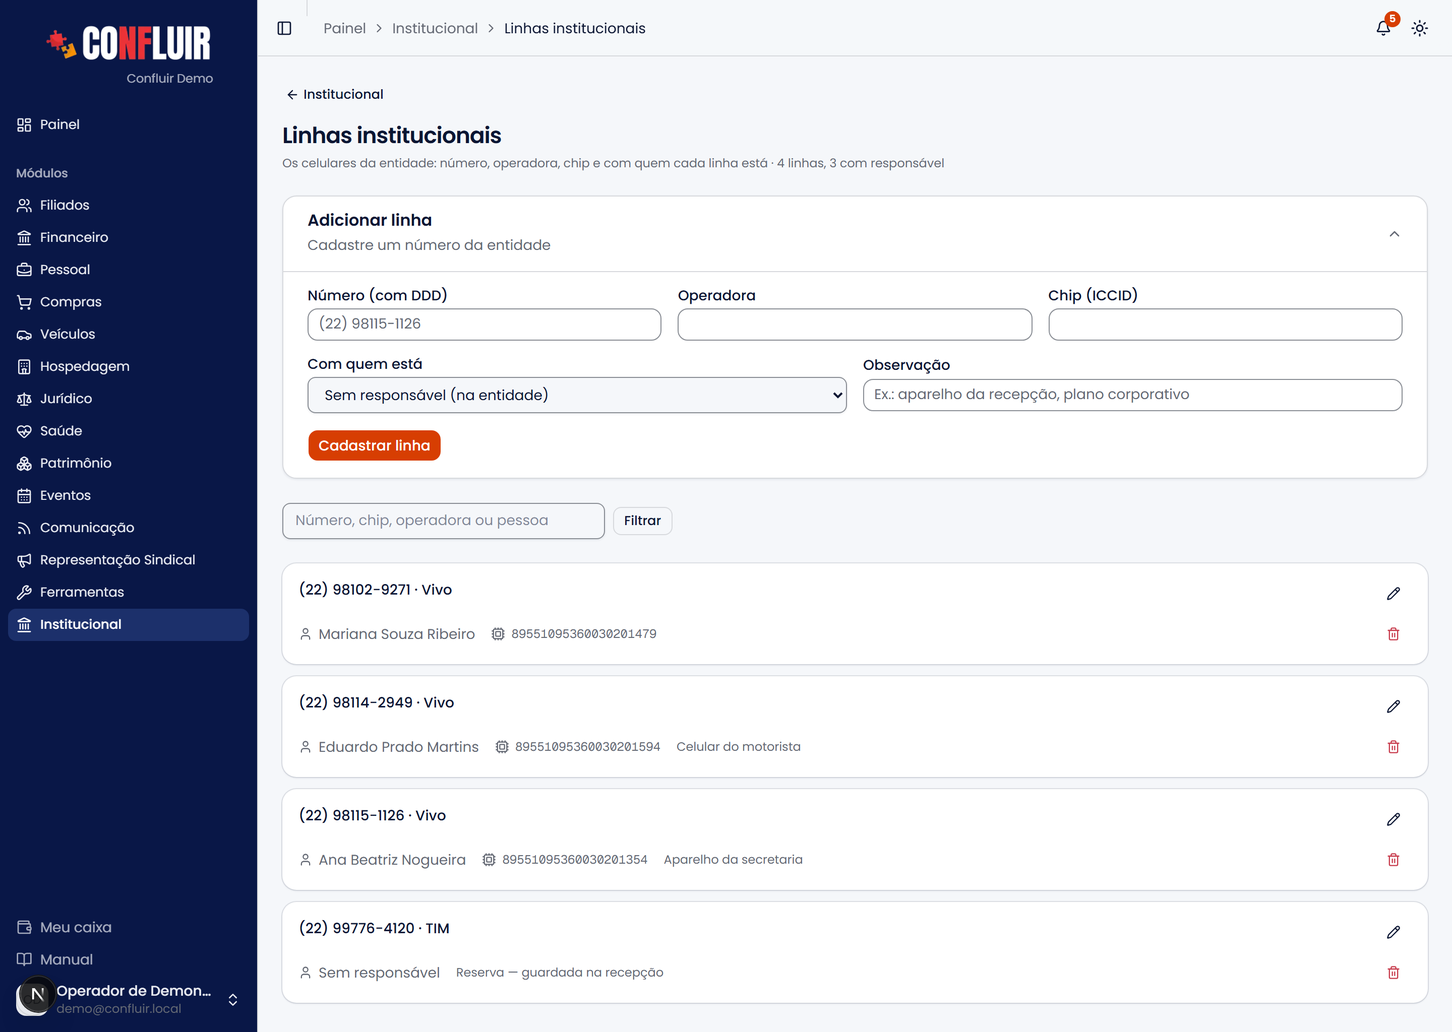
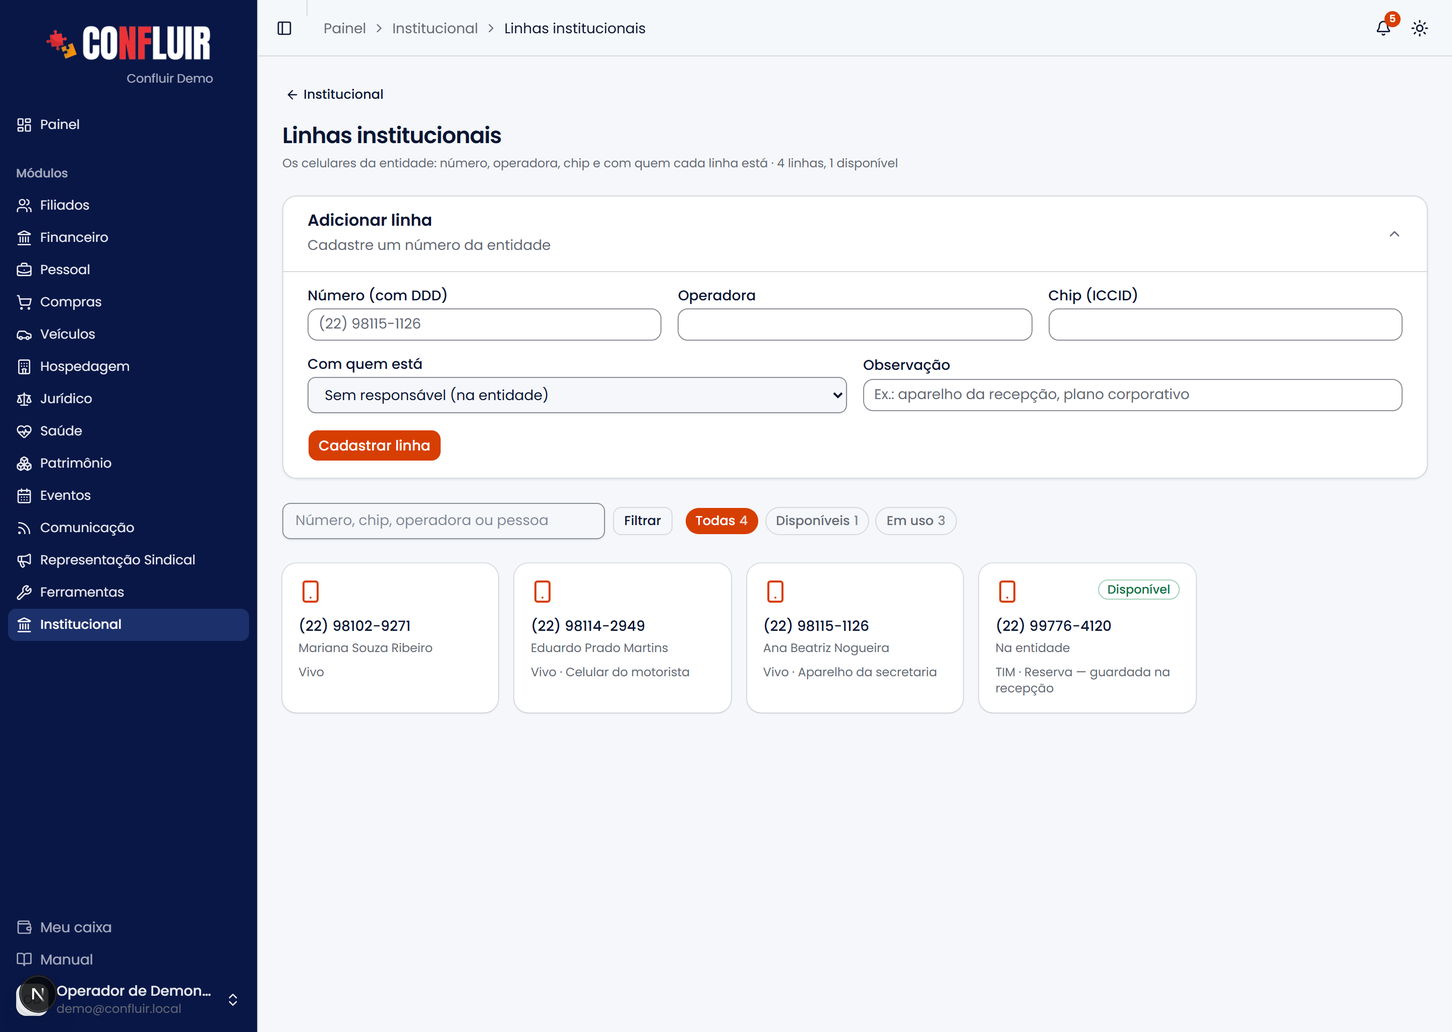
Linhas institucionais: filtro de disponibilidade, grade de 5 por linha e página da linha

diff --git a/src/lib/ajuda/base-conhecimento.ts b/src/lib/ajuda/base-conhecimento.ts
@@ -222,7 +222,7 @@ export const BASE_AJUDA: ArtigoBase[] = [
   {
     "area": "institucional",
     "slug": "index",
-    "texto": "O módulo Institucional cuida da entidade em si: a organização (identidade e\nsedes), a diretoria, as atas de reunião, o registro sindical no MTE, os e-mails\ne as linhas institucionais, os usuários do painel e as ajudas institucionais.\n\n Organização (identidade e sedes) \n\n As áreas do módulo\n\n \n \nOrganização: \n Os dados da organização (razão social, CNPJ, logo, site) aparecem para\n leitura, com o botão Editar organização. As sedes e os\n departamentos ficam em cartões; cada cartão abre a própria página, com o\n botão de editar. Esses dados aparecem em ofícios, fichas e rodapés.\n \n \nDiretoria e Atas: \n Os mandatos e integrantes da diretoria (base dos signatários de ofícios) e\n as atas das reuniões da entidade.\n \n \nRegistro sindical (MTE), E-mails e Linhas: \n Os registros no Ministério do Trabalho, os endereços institucionais e os\n celulares da entidade, com o responsável por cada um.\n \n \nUsuários e Ajudas institucionais: \n Quem acessa o painel e o que cada um pode ver/editar; e os apoios da\n entidade a organizações apoiadas.\n \n \n\n \n\n Departamentos\n\nEm Organização, os departamentos aparecem em cartões, com a coordenação e o\nnúmero de pessoas. Novo departamento abre o formulário; ao criar, você cai\nna página do departamento. Clicando no cartão, a página mostra as pessoas\nvinculadas — a coordenação primeiro — e o botão Editar departamento.\n\nCada departamento tem as pessoas vinculadas (funcionários ativos e\ndiretores do mandato vigente com conta de usuário) e o coordenador(a), que é\numa dessas pessoas: marque as pessoas primeiro — só as marcadas aparecem\ncomo opção de coordenador.\n\nCompras, Demandas e Ofícios usam essa lista. Em Ofícios, cada pessoa vê os\nofícios dos seus departamentos (como integrante ou coordenadora) — por isso\nmantenha as pessoas vinculadas em dia.\n\n \n\n \n\nExcluir é tornar legado: \n Um departamento não é apagado: compras, ofícios e contas continuam apontando\n para ele. Para excluir, desmarque todas as pessoas, deixe sem coordenador e\n salve (em Editar departamento); depois use Excluir (tornar legado). O legado sai das listas de\n escolha (nova compra, ofício, contratos…), continua nos registros antigos e\n fica em Departamentos legados, onde pode ser reativado.\n \n\n Linhas institucionais\n\nOs celulares da entidade: número (com DDD), operadora, chip (o\nICCID impresso no chip) e com quem a linha está — um funcionário ativo ou um\ndiretor do mandato vigente. Sem responsável, a linha fica \"na entidade\".\n\n Linhas institucionais \n\n \n \nCadastrar: \n Em Institucional → Linhas institucionais, abra Adicionar linha,\n informe o número e, se tiver, a operadora, o chip, com quem está e uma\n observação. O mesmo número não entra duas vezes.\n \n \nTrocar de mãos: \n Clique no lápis da linha e escolha a nova pessoa em Com quem está. Quem\n saiu do quadro continua aparecendo na lista enquanto estiver com a linha,\n em \"Fora do quadro atual\" — escolha outra pessoa ou \"Sem responsável\" para\n devolvê-la à entidade.\n \n \nEncontrar: \n A busca aceita parte do número, do chip, a operadora ou o nome da pessoa.\n \n \n\n \n\nAs linhas que existiam no sistema anterior vieram com número, operadora e chip,\nmas sem responsável — lá não havia esse campo. Preencha Com quem está\nem cada uma.\n\n Erros comuns\n\n- \"Vejo uma área e não as outras.\" Cada uma tem permissão própria\n (Organização, Mandatos e integrantes, Ajudas, Custeio, Usuários).\n- \"O coordenador que quero não aparece.\" Ele precisa estar entre as\n pessoas marcadas do departamento — marque-o na lista primeiro.\n- \"Excluir (tornar legado) está bloqueado.\" Ainda há pessoas ou coordenador\n no departamento: desmarque todos, deixe sem coordenador e salve.\n- \"Mudei o logo/razão e não refletiu no ofício.\" Os dados da Organização\n (logo, razão social, sedes) alimentam ofícios, fichas e rodapés — confira o\n cadastro em Organização."
+    "texto": "O módulo Institucional cuida da entidade em si: a organização (identidade e\nsedes), a diretoria, as atas de reunião, o registro sindical no MTE, os e-mails\ne as linhas institucionais, os usuários do painel e as ajudas institucionais.\n\n Organização (identidade e sedes) \n\n As áreas do módulo\n\n \n \nOrganização: \n Os dados da organização (razão social, CNPJ, logo, site) aparecem para\n leitura, com o botão Editar organização. As sedes e os\n departamentos ficam em cartões; cada cartão abre a própria página, com o\n botão de editar. Esses dados aparecem em ofícios, fichas e rodapés.\n \n \nDiretoria e Atas: \n Os mandatos e integrantes da diretoria (base dos signatários de ofícios) e\n as atas das reuniões da entidade.\n \n \nRegistro sindical (MTE), E-mails e Linhas: \n Os registros no Ministério do Trabalho, os endereços institucionais e os\n celulares da entidade, com o responsável por cada um.\n \n \nUsuários e Ajudas institucionais: \n Quem acessa o painel e o que cada um pode ver/editar; e os apoios da\n entidade a organizações apoiadas.\n \n \n\n \n\n Departamentos\n\nEm Organização, os departamentos aparecem em cartões, com a coordenação e o\nnúmero de pessoas. Novo departamento abre o formulário; ao criar, você cai\nna página do departamento. Clicando no cartão, a página mostra as pessoas\nvinculadas — a coordenação primeiro — e o botão Editar departamento.\n\nCada departamento tem as pessoas vinculadas (funcionários ativos e\ndiretores do mandato vigente com conta de usuário) e o coordenador(a), que é\numa dessas pessoas: marque as pessoas primeiro — só as marcadas aparecem\ncomo opção de coordenador.\n\nCompras, Demandas e Ofícios usam essa lista. Em Ofícios, cada pessoa vê os\nofícios dos seus departamentos (como integrante ou coordenadora) — por isso\nmantenha as pessoas vinculadas em dia.\n\n \n\n \n\nExcluir é tornar legado: \n Um departamento não é apagado: compras, ofícios e contas continuam apontando\n para ele. Para excluir, desmarque todas as pessoas, deixe sem coordenador e\n salve (em Editar departamento); depois use Excluir (tornar legado). O legado sai das listas de\n escolha (nova compra, ofício, contratos…), continua nos registros antigos e\n fica em Departamentos legados, onde pode ser reativado.\n \n\n Linhas institucionais\n\nOs celulares da entidade: número (com DDD), operadora, chip (o\nICCID impresso no chip) e com quem a linha está — um funcionário ativo ou um\ndiretor do mandato vigente. Sem responsável, a linha fica \"na entidade\" e\naparece como Disponível.\n\n Linhas institucionais \n\n \n \nCadastrar: \n Em Institucional → Linhas institucionais, abra Adicionar linha,\n informe o número e, se tiver, a operadora, o chip, com quem está e uma\n observação. O mesmo número não entra duas vezes.\n \n \nTrocar de mãos: \n As linhas ficam em cartões, cinco por fileira, com o número, com quem está (ou\n o selo Disponível) e a operadora. Clique no cartão: a página da linha\n mostra os dados e o botão Editar linha — escolha a nova pessoa em Com\n quem está e salve. Na mesma página, Remover linha tira do cadastro uma\n linha cancelada ou devolvida à operadora. Quem\n saiu do quadro continua aparecendo na lista enquanto estiver com a linha,\n em \"Fora do quadro atual\" — escolha outra pessoa ou \"Sem responsável\" para\n devolvê-la à entidade.\n \n \nEncontrar: \n A busca aceita parte do número, do chip, a operadora ou o nome da pessoa.\n Os botões Todas, Disponíveis e Em uso filtram pela\n disponibilidade — cada um mostra quantas linhas tem — e valem junto com a\n busca. Para entregar uma linha a alguém, comece por Disponíveis.\n \n \n\n \n\n \n\nAs linhas que existiam no sistema anterior vieram com número, operadora e chip,\nmas sem responsável — lá não havia esse campo. Parte delas ganhou o\nresponsável deduzido pelo telefone: quando o número da linha estava no cadastro\nde uma pessoa (telefone, WhatsApp ou ficha de filiação), a linha foi atribuída a\nela. Confira essas e preencha Com quem está nas demais.\n\n Erros comuns\n\n- \"Vejo uma área e não as outras.\" Cada uma tem permissão própria\n (Organização, Mandatos e integrantes, Ajudas, Custeio, Usuários).\n- \"O coordenador que quero não aparece.\" Ele precisa estar entre as\n pessoas marcadas do departamento — marque-o na lista primeiro.\n- \"Excluir (tornar legado) está bloqueado.\" Ainda há pessoas ou coordenador\n no departamento: desmarque todos, deixe sem coordenador e salve.\n- \"Mudei o logo/razão e não refletiu no ofício.\" Os dados da Organização\n (logo, razão social, sedes) alimentam ofícios, fichas e rodapés — confira o\n cadastro em Organização."
   },
   {
     "area": "institucional",

diff --git a/src/app/painel/institucional/linhas/page.tsx b/src/app/painel/institucional/linhas/page.tsx
@@ -1,9 +1,10 @@
 import type { Metadata } from "next"
 import Link from "next/link"
-import { ArrowLeft, Cpu, Smartphone, User } from "lucide-react"
+import { ArrowLeft, Smartphone } from "lucide-react"
 
-import { CartaoEditavel } from "@/components/cartao-editavel"
+import { CartaoArea, GRADE_AREAS } from "@/components/cartao-area"
 import { GrupoColapsavel } from "@/components/grupo-colapsavel"
+import { Badge } from "@/components/ui/badge"
 import { Button } from "@/components/ui/button"
 import { Card, CardContent } from "@/components/ui/card"
 import { requirePermissao } from "@/lib/auth"
@@ -12,29 +13,56 @@ import {
   opcoesResponsaveisLinha,
 } from "@/lib/db/linhas-institucionais"
 import { formatarTelefone } from "@/lib/formato"
+import { cn } from "@/lib/utils"
 
-import { AdicionarLinha, BotaoExcluirLinha, EditarLinha } from "./linhas-forms"
+import { AdicionarLinha } from "./linhas-forms"
 
 export const metadata: Metadata = { title: "Linhas institucionais — Confluir" }
 
 const FILTRO =
   "border-input bg-background text-foreground h-9 w-80 max-w-full rounded-md border px-3 text-sm shadow-xs outline-none [color-scheme:light] dark:[color-scheme:dark]"
 
+/** Disponibilidade: livre = sem responsável (na entidade); em uso = com alguém. */
+const SITUACOES = [
+  { valor: "todas", rotulo: "Todas" },
+  { valor: "disponiveis", rotulo: "Disponíveis" },
+  { valor: "em_uso", rotulo: "Em uso" },
+] as const
+type Situacao = (typeof SITUACOES)[number]["valor"]
+
 export default async function LinhasInstitucionaisPage({
   searchParams,
 }: {
-  searchParams: Promise<{ busca?: string }>
+  searchParams: Promise<{ busca?: string; situacao?: string; removida?: string }>
 }) {
   await requirePermissao("ferramentas_linhas_telefone", ["configuracoes"])
 
-  const { busca = "" } = await searchParams
-  const termo = busca.trim()
+  const params = await searchParams
+  const termo = (params.busca ?? "").trim()
+  const situacao: Situacao = SITUACOES.some((s) => s.valor === params.situacao)
+    ? (params.situacao as Situacao)
+    : "todas"
   const todas = await listarLinhasInstitucionais()
-  const [linhas, responsaveis] = await Promise.all([
+  const [buscadas, responsaveis] = await Promise.all([
     termo ? listarLinhasInstitucionais(termo) : Promise.resolve(todas),
     opcoesResponsaveisLinha(todas),
   ])
   const comResponsavel = todas.filter((l) => l.usuarioId).length
+  const contagem: Record<Situacao, number> = {
+    todas: buscadas.length,
+    disponiveis: buscadas.filter((l) => !l.usuarioId).length,
+    em_uso: buscadas.filter((l) => l.usuarioId).length,
+  }
+  const linhas = buscadas.filter((l) =>
+    situacao === "disponiveis" ? !l.usuarioId : situacao === "em_uso" ? Boolean(l.usuarioId) : true
+  )
+  const hrefSituacao = (s: Situacao) => {
+    const q = new URLSearchParams()
+    if (termo) q.set("busca", termo)
+    if (s !== "todas") q.set("situacao", s)
+    const qs = q.toString()
+    return `/painel/institucional/linhas${qs ? `?${qs}` : ""}`
+  }
 
   return (
     <>
@@ -48,15 +76,24 @@ export default async function LinhasInstitucionaisPage({
         <h1 className="text-2xl font-semibold tracking-tight">Linhas institucionais</h1>
         <p className="text-muted-foreground mt-1 text-xs">
           Os celulares da entidade: número, operadora, chip e com quem cada linha está ·{" "}
-          {todas.length} linha{todas.length === 1 ? "" : "s"}, {comResponsavel} com responsável
+          {todas.length} linha{todas.length === 1 ? "" : "s"}, {todas.length - comResponsavel}{" "}
+          disponíve{todas.length - comResponsavel === 1 ? "l" : "is"}
         </p>
       </div>
+
+      {params.removida && (
+        <p className="border-success/40 bg-success/10 text-success-fg rounded-md border px-3 py-2 text-sm">
+          Linha removida do cadastro.
+        </p>
+      )}
 
       <GrupoColapsavel titulo="Adicionar linha" descricao="Cadastre um número da entidade">
         <AdicionarLinha responsaveis={responsaveis} />
       </GrupoColapsavel>
 
-      <form className="flex flex-wrap items-center gap-2" action="/painel/institucional/linhas">
+      <div className="flex flex-wrap items-center gap-3">
+      <form className="flex min-w-0 flex-wrap items-center gap-2" action="/painel/institucional/linhas">
+        {situacao !== "todas" && <input type="hidden" name="situacao" value={situacao} />}
         <input
           type="search"
           name="busca"
@@ -68,45 +105,53 @@ export default async function LinhasInstitucionaisPage({
           Filtrar
         </Button>
       </form>
+        <nav aria-label="Disponibilidade" className="flex flex-wrap gap-1.5">
+          {SITUACOES.map((s) => (
+            <Button
+              key={s.valor}
+              asChild
+              size="sm"
+              variant={situacao === s.valor ? "default" : "outline"}
+              className={cn("rounded-full", situacao !== s.valor && "text-muted-foreground")}
+            >
+              <Link href={hrefSituacao(s.valor)} aria-current={situacao === s.valor ? "page" : undefined}>
+                {s.rotulo}
+                <span className="tabular-nums opacity-80">{contagem[s.valor]}</span>
+              </Link>
+            </Button>
+          ))}
+        </nav>
+      </div>
 
       {linhas.length === 0 ? (
         <Card>
           <CardContent>
             <p className="text-muted-foreground py-8 text-center text-sm">
               <Smartphone className="mx-auto mb-2 size-5" />
-              {termo
+              {termo || situacao !== "todas"
                 ? "Nenhuma linha encontrada com esse filtro."
                 : "Nenhuma linha institucional cadastrada ainda."}
             </p>
           </CardContent>
         </Card>
       ) : (
-        <div className="grid gap-3">
+        <div className={GRADE_AREAS}>
           {linhas.map((l) => (
-            <CartaoEditavel
+            <CartaoArea
               key={l.id}
-              titulo={`${formatarTelefone(l.numero)}${l.operadora ? ` · ${l.operadora}` : ""}`}
-              resumo={
-                <div className="flex flex-wrap items-center justify-between gap-2">
-                  <div className="text-muted-foreground flex flex-wrap items-center gap-x-4 gap-y-1 text-sm">
-                    <span className="flex items-center gap-1.5">
-                      <User className="size-3.5" />
-                      {l.responsavelNome ?? "Sem responsável"}
-                    </span>
-                    {l.chip && (
-                      <span className="flex items-center gap-1.5 font-mono text-xs">
-                        <Cpu className="size-3.5" />
-                        {l.chip}
-                      </span>
-                    )}
-                    {l.observacao && <span className="text-xs">{l.observacao}</span>}
-                  </div>
-                  <BotaoExcluirLinha id={l.id} numero={l.numero} />
-                </div>
+              titulo={formatarTelefone(l.numero)}
+              descricao={l.responsavelNome ?? (l.usuarioId ? "(sem nome)" : "Na entidade")}
+              href={`/painel/institucional/linhas/${l.id}`}
+              icone={Smartphone}
+              indicador={[l.operadora, l.observacao].filter(Boolean).join(" · ") || null}
+              selo={
+                l.usuarioId ? null : (
+                  <Badge variant="outline" className="border-success/40 text-success-fg">
+                    Disponível
+                  </Badge>
+                )
               }
-            >
-              <EditarLinha linha={l} responsaveis={responsaveis} />
-            </CartaoEditavel>
+            />
           ))}
         </div>
       )}

diff --git a/src/app/painel/institucional/linhas/[id]/page.tsx b/src/app/painel/institucional/linhas/[id]/page.tsx
@@ -1,0 +1,100 @@
+import type { Metadata } from "next"
+import Link from "next/link"
+import { notFound } from "next/navigation"
+import { ArrowLeft, Smartphone } from "lucide-react"
+
+import { RotuloTrilha } from "@/components/layout/trilha-rotulos"
+import { Badge } from "@/components/ui/badge"
+import { Button } from "@/components/ui/button"
+import { Card, CardContent } from "@/components/ui/card"
+import { requirePermissao } from "@/lib/auth"
+import {
+  listarLinhasInstitucionais,
+  opcoesResponsaveisLinha,
+} from "@/lib/db/linhas-institucionais"
+import { formatarTelefone } from "@/lib/formato"
+
+import { AbrirFormulario } from "../../organizacao/abrir-formulario"
+import { BotaoExcluirLinha, EditarLinha } from "../linhas-forms"
+
+export const metadata: Metadata = { title: "Linha institucional — Confluir" }
+
+function Dado({ rotulo, valor, mono }: { rotulo: string; valor: string | null; mono?: boolean }) {
+  return (
+    <div className="min-w-0">
+      <dt className="text-muted-foreground text-xs">{rotulo}</dt>
+      <dd className={mono ? "truncate font-mono text-sm" : "truncate"}>{valor || "—"}</dd>
+    </div>
+  )
+}
+
+/** Uma linha institucional: os dados, com Editar linha e a exclusão. */
+export default async function LinhaInstitucionalPage({
+  params,
+}: {
+  params: Promise<{ id: string }>
+}) {
+  await requirePermissao("ferramentas_linhas_telefone", ["configuracoes"])
+  const { id } = await params
+  const todas = await listarLinhasInstitucionais()
+  const linha = todas.find((l) => l.id === id)
+  if (!linha) notFound()
+  const responsaveis = await opcoesResponsaveisLinha(todas)
+  const numero = formatarTelefone(linha.numero)
+
+  return (
+    <>
+      <RotuloTrilha valores={{ [id]: numero }} />
+      <div>
+        <Button variant="ghost" size="sm" asChild className="-ml-2 mb-3">
+          <Link href="/painel/institucional/linhas">
+            <ArrowLeft />
+            Linhas institucionais
+          </Link>
+        </Button>
+        <div className="flex flex-wrap items-center gap-2">
+          <Smartphone className="text-muted-foreground size-5" />
+          <h1 className="text-2xl font-semibold tracking-tight">{numero}</h1>
+          {linha.usuarioId ? (
+            <Badge variant="outline">Em uso</Badge>
+          ) : (
+            <Badge variant="outline" className="border-success/40 text-success-fg">
+              Disponível
+            </Badge>
+          )}
+        </div>
+        <p className="text-muted-foreground mt-1 text-xs">
+          {linha.usuarioId
+            ? `Com ${linha.responsavelNome ?? "(sem nome)"}`
+            : "Sem responsável — a linha está com a entidade"}
+        </p>
+      </div>
+
+      <Card>
+        <CardContent>
+          <AbrirFormulario
+            rotulo="Editar linha"
+            resumo={
+              <dl className="grid gap-x-6 gap-y-3 text-sm sm:grid-cols-2 lg:grid-cols-3">
+                <Dado rotulo="Número" valor={numero} />
+                <Dado rotulo="Operadora" valor={linha.operadora} />
+                <Dado rotulo="Chip (ICCID)" valor={linha.chip} mono />
+                <Dado rotulo="Com quem está" valor={linha.responsavelNome ?? (linha.usuarioId ? "(sem nome)" : "Na entidade")} />
+                <Dado rotulo="Observação" valor={linha.observacao} />
+              </dl>
+            }
+          >
+            <EditarLinha linha={linha} responsaveis={responsaveis} />
+          </AbrirFormulario>
+        </CardContent>
+      </Card>
+
+      <div className="flex flex-wrap items-center gap-2">
+        <BotaoExcluirLinha id={linha.id} numero={linha.numero} comRotulo />
+        <span className="text-muted-foreground text-xs">
+          Para uma linha cancelada ou devolvida à operadora.
+        </span>
+      </div>
+    </>
+  )
+}

diff --git a/src/components/cartao-area.tsx b/src/components/cartao-area.tsx
@@ -1,4 +1,4 @@
-import type { ComponentType } from "react"
+import type { ComponentType, ReactNode } from "react"
 import Link from "next/link"
 
 import { Badge } from "@/components/ui/badge"
@@ -16,7 +16,8 @@ export const GRADE_AREAS =
 /**
  * Card de navegação para um hub de módulo/área. Padrão único do sistema: ícone
  * laranja (`text-primary`) no topo, título, descrição menor e, opcionalmente,
- * um indicador (ex.: "128 registros") ou o selo "Em breve". Substitui os
+ * um indicador (ex.: "128 registros"), um selo próprio (`selo`, ex.: "Disponível")
+ * ou o selo "Em breve". Substitui os
  * `CardArea`/`AreaCard` que eram duplicados em cada hub.
  */
 export function CartaoArea({
@@ -26,6 +27,7 @@ export function CartaoArea({
   icone: Icone,
   indicador,
   emBreve,
+  selo,
 }: {
   titulo: string
   descricao: string
@@ -33,6 +35,7 @@ export function CartaoArea({
   icone: ComponentType<{ className?: string }>
   indicador?: string | null
   emBreve?: boolean
+  selo?: ReactNode
 }) {
   const clicavel = Boolean(href) && !emBreve
 
@@ -47,7 +50,7 @@ export function CartaoArea({
       <CardContent>
         <div className="flex items-start justify-between gap-2">
           <Icone className="text-primary size-6" />
-          {emBreve && <Badge variant="secondary">Em breve</Badge>}
+          {emBreve ? <Badge variant="secondary">Em breve</Badge> : selo}
         </div>
         <p className="mt-3 font-medium">{titulo}</p>
         <p className="text-muted-foreground mt-1 text-xs">{descricao}</p>

diff --git a/src/app/painel/institucional/linhas/linhas-forms.tsx b/src/app/painel/institucional/linhas/linhas-forms.tsx
@@ -152,7 +152,7 @@ export function AdicionarLinha({ responsaveis }: { responsaveis: ResponsavelLinh
   )
 }
 
-/** Formulário de edição (children do CartaoEditavel de cada linha). */
+/** Formulário de edição (na página da linha, atrás de Editar linha). */
 export function EditarLinha({
   linha,
   responsaveis,
@@ -176,7 +176,15 @@ export function EditarLinha({
   )
 }
 
-export function BotaoExcluirLinha({ id, numero }: { id: string; numero: string }) {
+export function BotaoExcluirLinha({
+  id,
+  numero,
+  comRotulo,
+}: {
+  id: string
+  numero: string
+  comRotulo?: boolean
+}) {
   const [estado, formAction, pendente] = useActionState(excluirLinhaAction, {})
   return (
     <form
@@ -187,8 +195,16 @@ export function BotaoExcluirLinha({ id, numero }: { id: string; numero: string }
     >
       <input type="hidden" name="id" value={id} />
       {estado.erro && <p className="text-destructive mb-1 text-xs">{estado.erro}</p>}
-      <Button type="submit" variant="ghost" size="sm" disabled={pendente} aria-label="Remover linha">
+      <Button
+        type="submit"
+        variant="ghost"
+        size="sm"
+        disabled={pendente}
+        aria-label="Remover linha"
+        className={comRotulo ? "text-destructive" : undefined}
+      >
         {pendente ? <Loader2 className="animate-spin" /> : <Trash2 className="text-destructive" />}
+        {comRotulo && "Remover linha"}
       </Button>
     </form>
   )

diff --git a/src/app/painel/institucional/linhas/actions.ts b/src/app/painel/institucional/linhas/actions.ts
@@ -1,6 +1,7 @@
 "use server"
 
 import { revalidatePath } from "next/cache"
+import { redirect } from "next/navigation"
 
 import { requirePermissao } from "@/lib/auth"
 import { type EstadoForm } from "@/lib/contas"
@@ -34,7 +35,7 @@ function dadosDe(formData: FormData): DadosLinha {
 }
 
 function revalidar() {
-  revalidatePath("/painel/institucional/linhas")
+  revalidatePath("/painel/institucional/linhas", "layout")
 }
 
 export async function criarLinhaAction(
@@ -71,5 +72,5 @@ export async function excluirLinhaAction(
   const { erro } = await excluirLinhaInstitucional(id)
   if (erro) return { erro }
   revalidar()
-  return { ok: "Linha removida." }
+  redirect("/painel/institucional/linhas?removida=1")
 }
